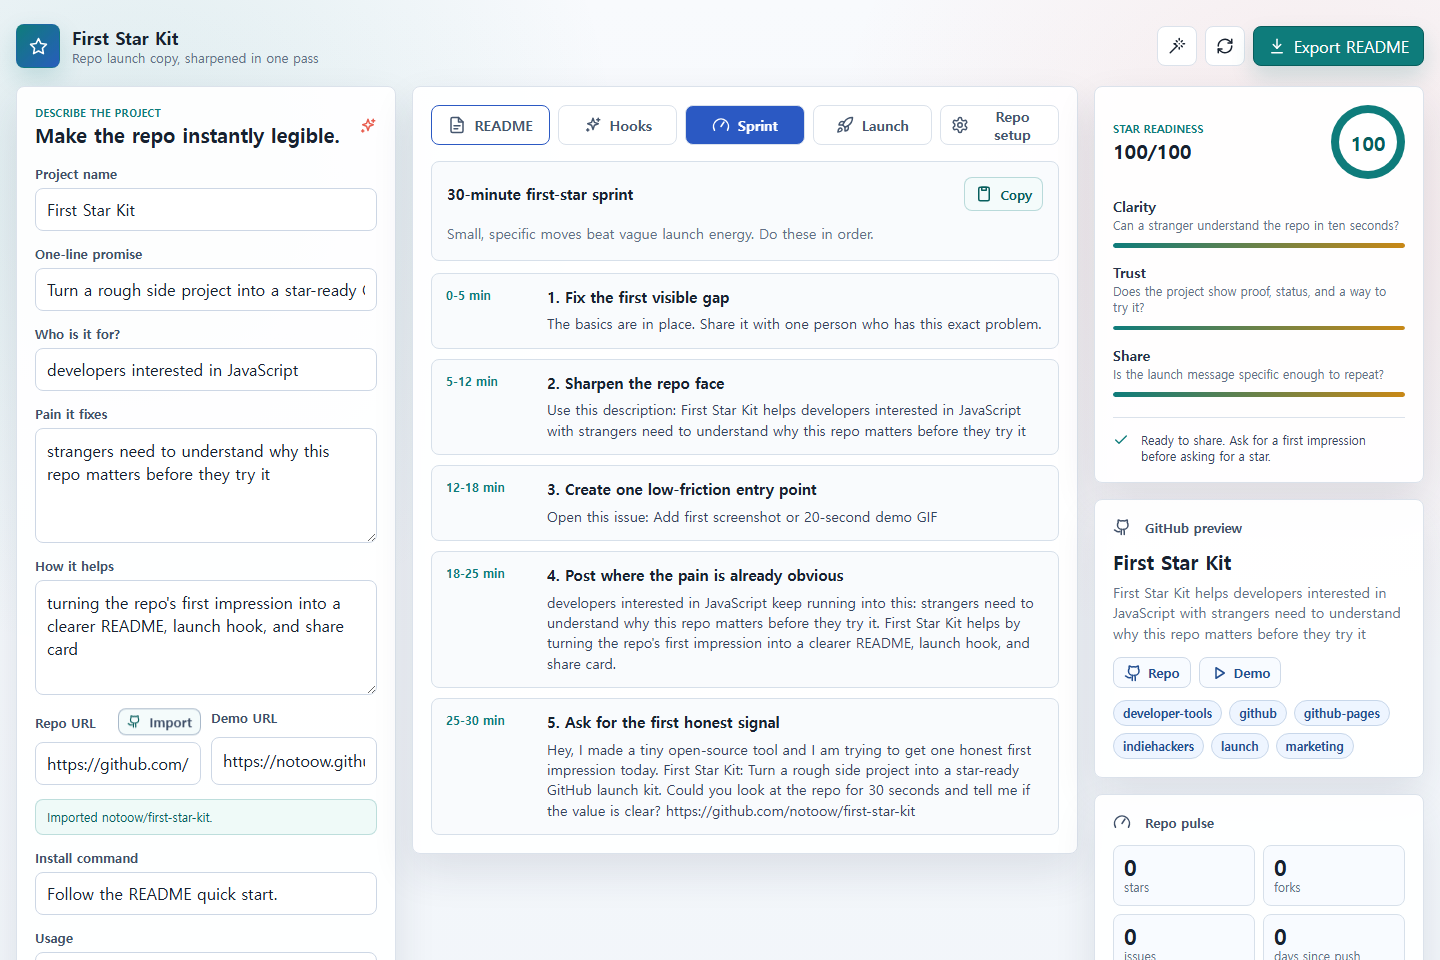
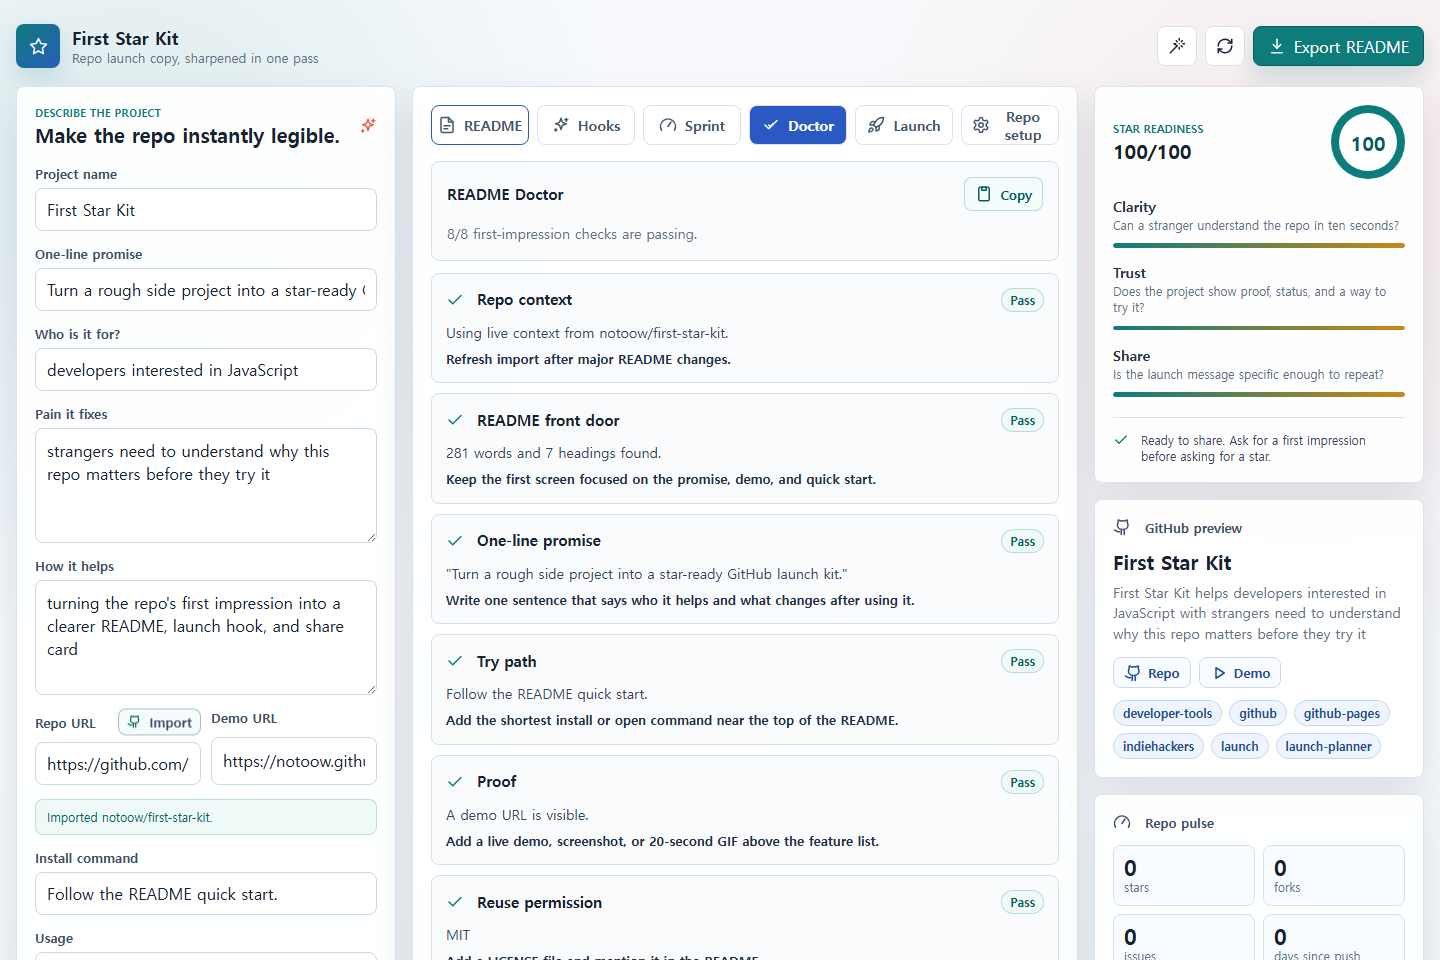
add readme doctor

diff --git a/src/app.js b/src/app.js
@@ -140,6 +140,26 @@ function extractInstallCommand(readme) {
   return line || "";
 }
 
+function analyzeReadme(readme) {
+  const text = String(readme || "");
+  const lower = text.toLowerCase();
+  const imagePattern = /!\[[^\]]*\]\([^)]+\)|<img\b/i;
+  const demoPattern = /\b(demo|preview|screenshot|live|try it|playground)\b/i;
+  const installPattern = /\b(quick start|getting started|installation|install|usage|setup)\b/i;
+  const contributionPattern = /\b(contributing|contribute|good first issue|help wanted|pull request|issue)\b/i;
+
+  return {
+    exists: Boolean(text.trim()),
+    wordCount: text.trim() ? text.trim().split(/\s+/).length : 0,
+    headingCount: (text.match(/^#{1,3}\s+/gm) || []).length,
+    hasInstall: Boolean(extractInstallCommand(text)) || installPattern.test(text),
+    hasDemo: demoPattern.test(text) || hasUrl(text.match(/https?:\/\/[^\s)]+/)?.[0] || ""),
+    hasScreenshot: imagePattern.test(text),
+    hasLicenseMention: lower.includes("license"),
+    hasContributionPath: contributionPattern.test(text),
+  };
+}
+
 function buildRepoDescription(data) {
   const name = data.projectName.trim() || "This project";
   const audience = data.audience.trim() || "developers";
@@ -349,6 +369,77 @@ function buildSprintPlan(data, repoKit, totalScore) {
   return items.slice(0, 6);
 }
 
+function buildDoctor(data, repoKit) {
+  const pulse = data.repoPulse;
+  const stats = pulse && pulse.readmeStats;
+  const imported = Boolean(pulse);
+  const checks = [
+    {
+      label: "Repo context",
+      ok: imported,
+      why: imported ? `Using live context from ${pulse.fullName}.` : "The doctor is strongest after a public GitHub import.",
+      fix: imported ? "Refresh import after major README changes." : "Paste a public GitHub URL and press Import.",
+    },
+    {
+      label: "README front door",
+      ok: stats ? stats.exists && stats.wordCount >= 80 : true,
+      why: stats
+        ? stats.exists
+          ? `${stats.wordCount} words and ${stats.headingCount} headings found.`
+          : "No README was found on the default branch."
+        : "The generated README is ready to export.",
+      fix: stats && !stats.exists ? "Add README.md before sharing the repo." : "Keep the first screen focused on the promise, demo, and quick start.",
+    },
+    {
+      label: "One-line promise",
+      ok: data.tagline.trim().length >= 24 && data.tagline.trim().length <= 130,
+      why: data.tagline.trim() ? `"${compact(data.tagline, 90)}"` : "No tagline yet.",
+      fix: "Write one sentence that says who it helps and what changes after using it.",
+    },
+    {
+      label: "Try path",
+      ok: Boolean(data.installCommand.trim()) && (stats ? stats.hasInstall : true),
+      why: data.installCommand.trim() ? compact(data.installCommand, 110) : "No quick-start command yet.",
+      fix: "Add the shortest install or open command near the top of the README.",
+    },
+    {
+      label: "Proof",
+      ok: hasUrl(data.demoUrl) || Boolean(stats && (stats.hasDemo || stats.hasScreenshot)),
+      why: hasUrl(data.demoUrl)
+        ? "A demo URL is visible."
+        : stats && stats.hasScreenshot
+          ? "A screenshot appears in README."
+          : "No demo or screenshot signal yet.",
+      fix: "Add a live demo, screenshot, or 20-second GIF above the feature list.",
+    },
+    {
+      label: "Reuse permission",
+      ok: Boolean(data.license.trim()) || Boolean(pulse && pulse.license) || Boolean(stats && stats.hasLicenseMention),
+      why: data.license.trim() || (pulse && pulse.license) || "License is unclear.",
+      fix: "Add a LICENSE file and mention it in the README.",
+    },
+    {
+      label: "Findability",
+      ok: repoKit.topics.length >= 5,
+      why: `${repoKit.topics.length} topics prepared.`,
+      fix: "Use at least five concrete GitHub topics, including the audience and workflow.",
+    },
+    {
+      label: "Next contribution",
+      ok: Boolean(stats && stats.hasContributionPath),
+      why: stats && stats.hasContributionPath ? "README mentions issues, PRs, or contribution." : "No visible contributor path found.",
+      fix: `Create this starter issue: ${repoKit.issues[0]}`,
+    },
+  ];
+
+  const passed = checks.filter((check) => check.ok).length;
+  return {
+    passed,
+    total: checks.length,
+    checks,
+  };
+}
+
 function firstPulseNudge(data, pulse, repoKit) {
   if (!pulse.readmeFound) return "Add a README before sharing. No launch copy can beat a missing front door.";
   if (!hasUrl(data.demoUrl)) return "Add a live demo or screenshot link so people can inspect the result.";
@@ -490,6 +581,36 @@ function renderSprint(items) {
                 <h2>${index + 1}. ${escapeHtml(item.title)}</h2>
                 <p>${escapeHtml(item.detail)}</p>
               </div>
+            </article>
+          `,
+        )
+        .join("")}
+    </div>
+  `;
+}
+
+function renderDoctor(doctor) {
+  const panel = document.querySelector('[data-panel="doctor"]');
+  panel.innerHTML = `
+    <article class="copy-block doctor-summary">
+      <div class="copy-block-head">
+        <h2>README Doctor</h2>
+        ${copyButton("doctor")}
+      </div>
+      <p>${doctor.passed}/${doctor.total} first-impression checks are passing.</p>
+    </article>
+    <div class="doctor-list">
+      ${doctor.checks
+        .map(
+          (check) => `
+            <article class="doctor-card ${check.ok ? "ok" : "warn"}">
+              <div class="doctor-card-head">
+                ${icon(check.ok ? "check" : "link")}
+                <h2>${escapeHtml(check.label)}</h2>
+                <span>${check.ok ? "Pass" : "Fix"}</span>
+              </div>
+              <p>${escapeHtml(check.why)}</p>
+              <strong>${escapeHtml(check.fix)}</strong>
             </article>
           `,
         )
@@ -650,10 +771,12 @@ function render() {
   const nudges = getNudges(state);
   const totalScore = Math.round(scores.reduce((sum, item) => sum + item.score, 0) / scores.length);
   const sprint = buildSprintPlan(state, repoKit, totalScore);
+  const doctor = buildDoctor(state, repoKit);
 
   renderReadme(readme);
   renderHooks(hooks);
   renderSprint(sprint);
+  renderDoctor(doctor);
   renderLaunch(posts);
   renderRepo(repoKit);
   renderScores(scores, nudges);
@@ -717,6 +840,12 @@ function textForCopy(key) {
       .map((item) => `${item.time} - ${item.title}\n${item.detail}`)
       .join("\n\n");
   }
+  if (key === "doctor") {
+    const doctor = buildDoctor(state, repoKit);
+    return doctor.checks
+      .map((check) => `${check.ok ? "PASS" : "FIX"} - ${check.label}\n${check.why}\nNext: ${check.fix}`)
+      .join("\n\n");
+  }
   if (key === "repoName") return repoKit.slug;
   if (key === "description") return repoKit.description;
   if (key === "topics") return repoKit.topics.join(", ");
@@ -772,6 +901,7 @@ async function importRepoFromGitHub(button) {
 
     const repo = await response.json();
     const readme = await fetchReadmeText(parsed.owner, parsed.repo, repo.default_branch || "main");
+    const readmeStats = analyzeReadme(readme);
     const installCommand = extractInstallCommand(readme);
     const topics = uniqueList([
       ...(repo.topics || []),
@@ -819,6 +949,7 @@ async function importRepoFromGitHub(button) {
         defaultBranch: repo.default_branch || "main",
         hasHomepage: hasUrl(repo.homepage),
         readmeFound: Boolean(readme),
+        readmeStats,
         topicsCount: topics.length,
       },
     };

diff --git a/src/styles.css b/src/styles.css
@@ -384,7 +384,7 @@ p {
 
 .tabs {
   display: grid;
-  grid-template-columns: repeat(5, minmax(0, 1fr));
+  grid-template-columns: repeat(6, minmax(0, 1fr));
   gap: 8px;
   margin-bottom: 16px;
 }
@@ -516,6 +516,82 @@ p {
   font-size: 14px;
   line-height: 1.45;
   word-break: break-word;
+}
+
+.doctor-summary p {
+  color: var(--muted);
+}
+
+.doctor-list {
+  display: grid;
+  gap: 10px;
+}
+
+.doctor-card {
+  border: 1px solid #d7e0ea;
+  border-radius: 8px;
+  background: var(--panel-strong);
+  padding: 14px;
+}
+
+.doctor-card.warn {
+  border-color: rgba(232, 93, 79, 0.28);
+  background: #fff8f6;
+}
+
+.doctor-card-head {
+  display: grid;
+  grid-template-columns: 22px minmax(0, 1fr) auto;
+  gap: 9px;
+  align-items: center;
+}
+
+.doctor-card-head .icon {
+  color: var(--teal);
+}
+
+.doctor-card.warn .doctor-card-head .icon {
+  color: #9c352c;
+}
+
+.doctor-card h2 {
+  color: var(--ink);
+  font-size: 15px;
+  line-height: 1.25;
+}
+
+.doctor-card-head span {
+  display: inline-flex;
+  align-items: center;
+  min-height: 24px;
+  border: 1px solid rgba(14, 124, 123, 0.24);
+  border-radius: 999px;
+  color: var(--teal-dark);
+  background: #effaf8;
+  padding: 0 8px;
+  font-size: 12px;
+  font-weight: 850;
+}
+
+.doctor-card.warn .doctor-card-head span {
+  border-color: rgba(232, 93, 79, 0.32);
+  color: #9c352c;
+  background: #fff5f3;
+}
+
+.doctor-card p {
+  margin-top: 10px;
+  color: #34445b;
+  font-size: 14px;
+  line-height: 1.45;
+}
+
+.doctor-card strong {
+  display: block;
+  margin-top: 8px;
+  color: #213047;
+  font-size: 13px;
+  line-height: 1.4;
 }
 
 .topic-row {

diff --git a/index.html b/index.html
@@ -16,7 +16,7 @@
     <meta property="og:url" content="https://notoow.github.io/first-star-kit/" />
     <meta name="twitter:card" content="summary_large_image" />
     <title>First Star Kit</title>
-    <link rel="stylesheet" href="./src/styles.css?v=20260511d" />
+    <link rel="stylesheet" href="./src/styles.css?v=20260511e" />
   </head>
   <body>
     <svg aria-hidden="true" class="svg-sprite">
@@ -227,6 +227,10 @@
               <svg class="icon"><use href="#i-gauge"></use></svg>
               <span>Sprint</span>
             </button>
+            <button type="button" data-tab="doctor">
+              <svg class="icon"><use href="#i-badge"></use></svg>
+              <span>Doctor</span>
+            </button>
             <button type="button" data-tab="launch">
               <svg class="icon"><use href="#i-rocket"></use></svg>
               <span>Launch</span>
@@ -254,6 +258,7 @@
           <div class="tab-content stack" data-panel="launch" hidden></div>
           <div class="tab-content stack" data-panel="hooks" hidden></div>
           <div class="tab-content stack" data-panel="sprint" hidden></div>
+          <div class="tab-content stack" data-panel="doctor" hidden></div>
           <div class="tab-content stack" data-panel="repo" hidden></div>
         </section>
 
@@ -333,6 +338,6 @@
       </section>
     </main>
 
-    <script src="./src/app.js?v=20260511d"></script>
+    <script src="./src/app.js?v=20260511e"></script>
   </body>
 </html>

diff --git a/README.md b/README.md
@@ -17,6 +17,7 @@ Getting a first GitHub star is often less about the code and more about whether 
 - Live README generator
 - Public GitHub repo import for name, description, topics, homepage, license, and quick-start hints
 - Repo Pulse for stars, forks, issue count, recent activity, README, license, homepage, and topics
+- README Doctor for first-impression gaps and exact fixes
 - Copy-ready hooks for posts, DMs, and first-impression asks
 - 30-minute first-star sprint plan
 - GitHub repo name, description, topics, and starter issues
